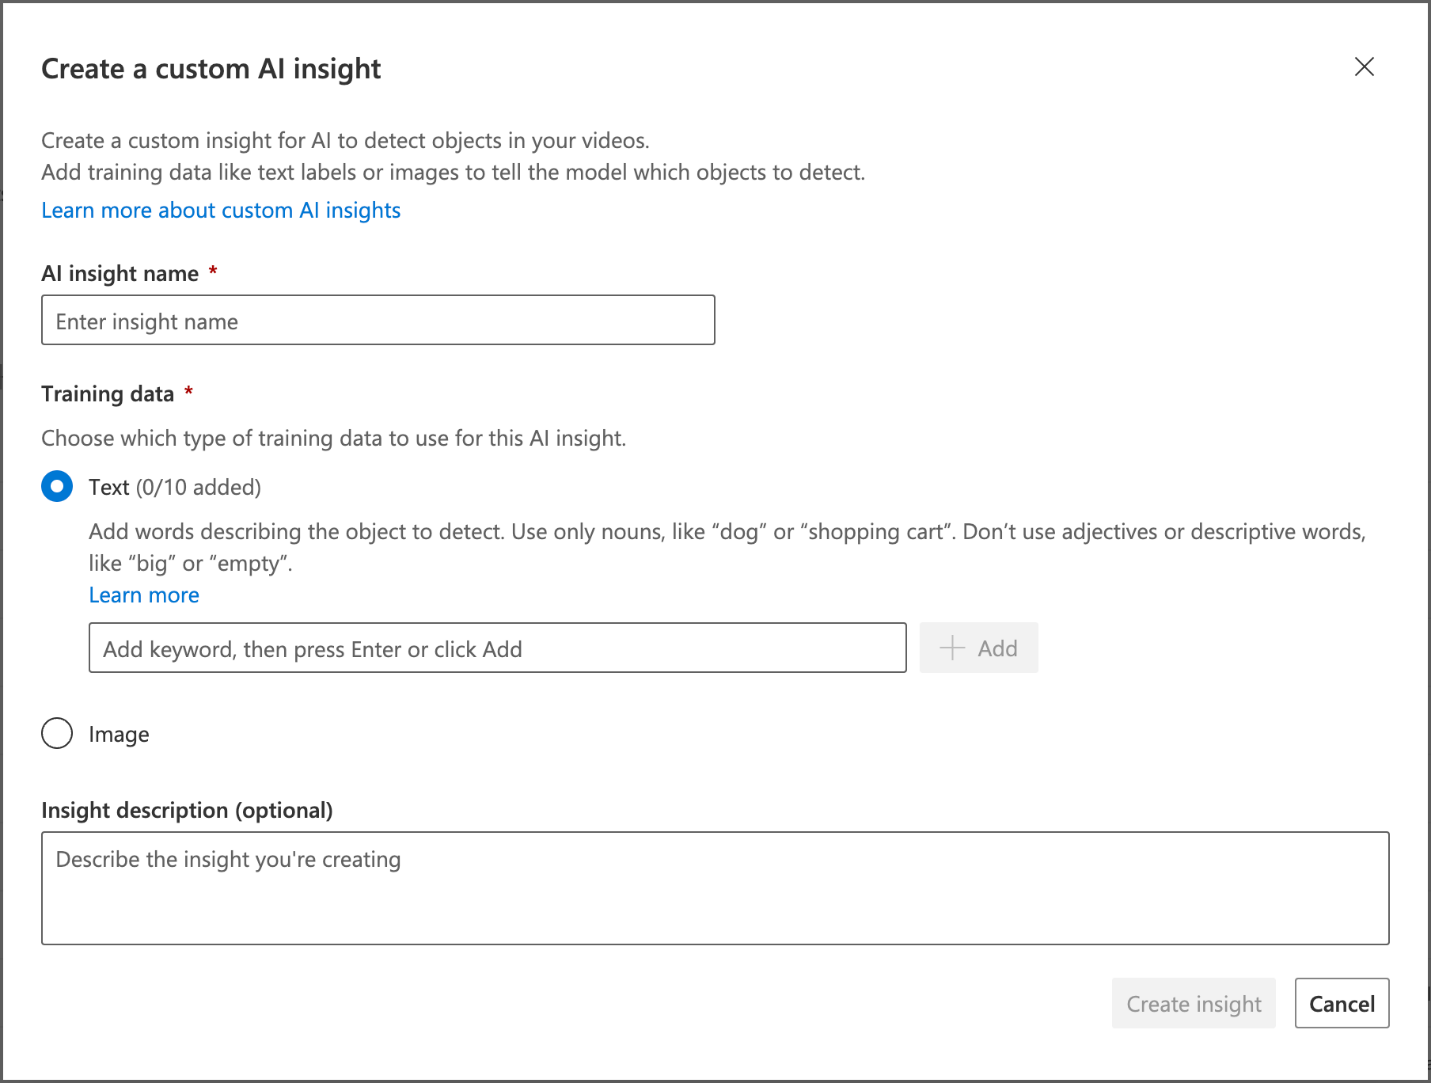
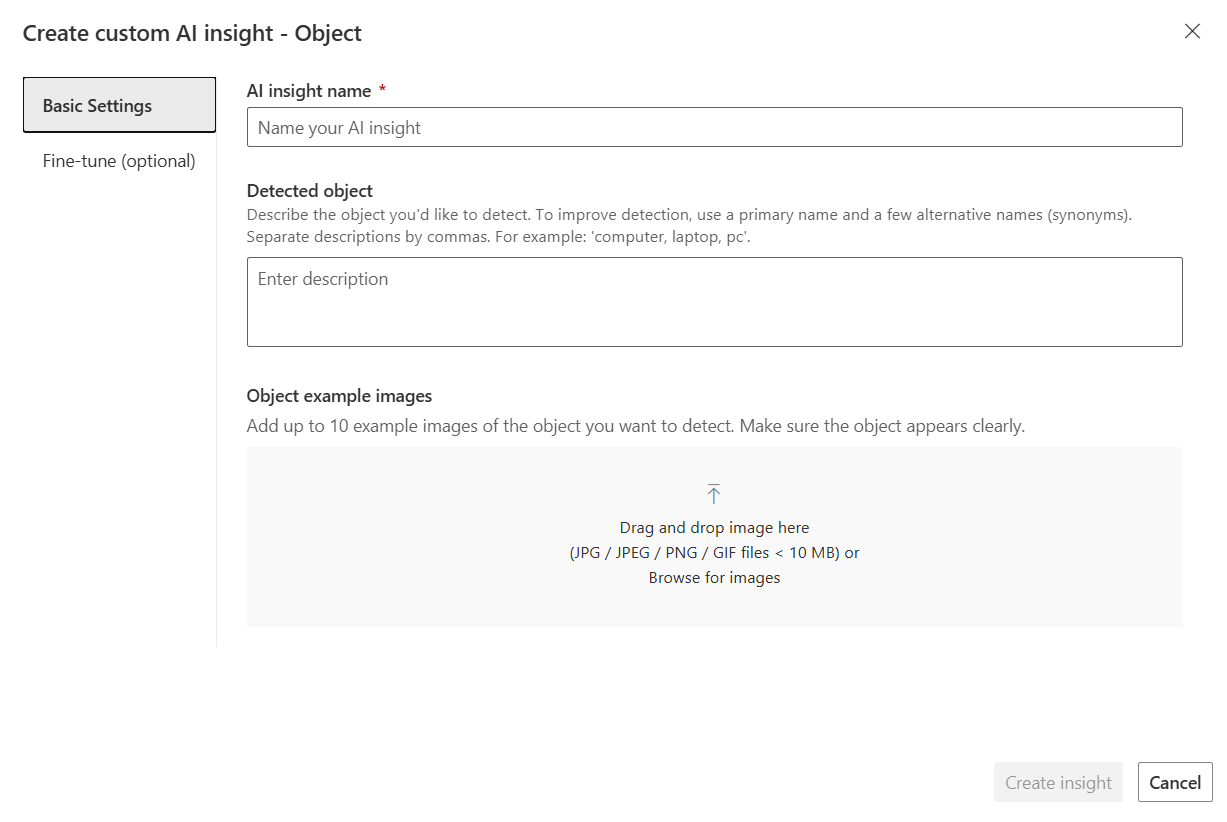
Upd and add screenshots, upd steps around screenshots

diff --git a/azure-video-indexer/live-ai-insights-catalog.md b/azure-video-indexer/live-ai-insights-catalog.md
@@ -44,18 +44,20 @@ To create a new custom AI real-time insight:
 1. Move to the **AI insights** tab.
 1. Select **Create custom insight**.
 1. Choose the type of AI insight you want to create: **Object** or **Situation**.
-1. Enter a name for the insight in the **AI insight name** field. The name isn't part of the training data.
-1. Choose the **Training data** for the model:
-   - **For Object detection**:
-         - **Text**: Add words that describe the object. Use only nouns like `dog` or `shopping cart`. Don’t use adjectives or descriptive words like `big` or `empty`. For more examples, see [Best Practices](#best-practices-to-create-a-custom-insight).
-      - **Image**: Upload up to 10 images of the object.
-      - Optionally, add negative examples in the fine-tune tab. **Text**: Add words to name objects you don't want to detect. Separate the words by commas. **Image**: Upload up to 10 images that represent objects you do not want to detect.
-            
-         :::image type="content" source="./media/live-ai-insights-catalog/create-custom-ai-insight.png" border="true" alt-text="Screenshot of the Create a custom AI insight page." lightbox="./media/live-ai-insights-catalog/create-custom-ai-insight.png" :::
 
-     - **For Situation detection**:
-         - **Text**: Describe the situation you want to detect, such as `A long queue in a store`.
-         - Optionally, add negative examples in the fine-tune tab. Describe situations you don’t want to detect. Separate examples with commas.
+   :::image type="content" source="media/live-ai-insights-catalog/choose-custom-ai-insight-type.png" alt-text="Screenshot of create a custom AI insight page with option to select object or situation detection.":::
+1. Enter a name for the insight in the **AI insight name** field. The name isn't part of the training data.
+1. For object detection:
+   - **Detected object**: Describe the object to detect. Use only nouns like `dog` or `shopping cart`. Don’t use adjectives or descriptive words like `big` or `empty`. For more examples, see [Best Practices](#best-practices-to-create-a-custom-insight).
+   - **Image**: Upload up to 10 images of the object.
+   :::image type="content" source="./media/live-ai-insights-catalog/create-custom-ai-insight.png" border="true" alt-text="Screenshot of the create custom AI insight page for object detection where you add a name, describe the object, and upload images."  :::
+   - Select the **Fine-tune (optional)** tab to add negative examples.
+      - Add words to name objects you don't want to detect. Separate the words by commas.
+      - Upload up to 10 images that represent objects you do not want to detect.
+1. For situation detection:
+   - **Detected situation**: Describe the situation you want to detect, such as `A long queue in a store`.
+      :::image type="content" source="media/live-ai-insights-catalog/create-custom-ai-insight-situation.png" alt-text="Screenshot of the basic settings tab for situation type custom insight where you describe what you want to detect.":::
+   - Select the **Fine-tune (optional)** tab to add negative examples. Describe situations you don’t want to detect. Separate examples with commas.
 1. Review and select **Create insight**.
 
 ## Best practices to create a custom insight
